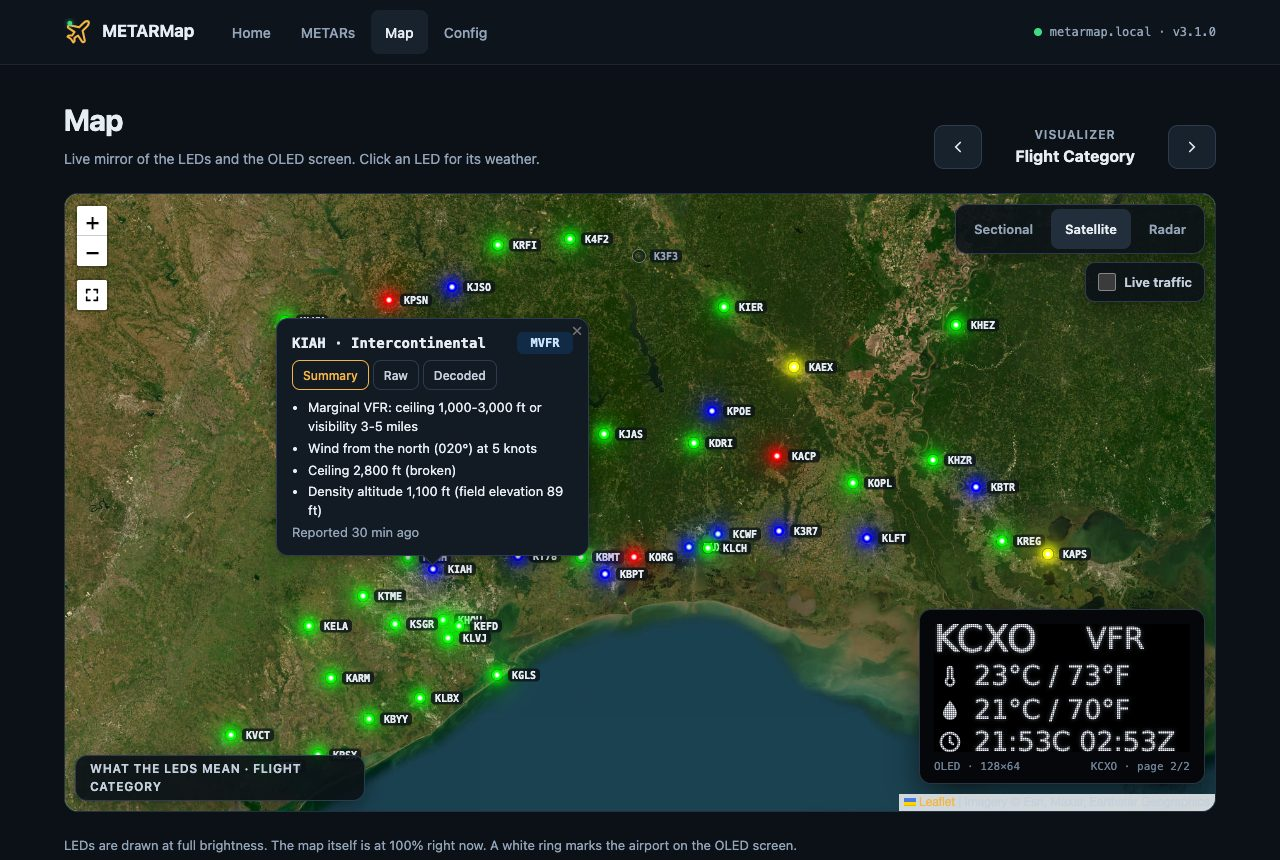
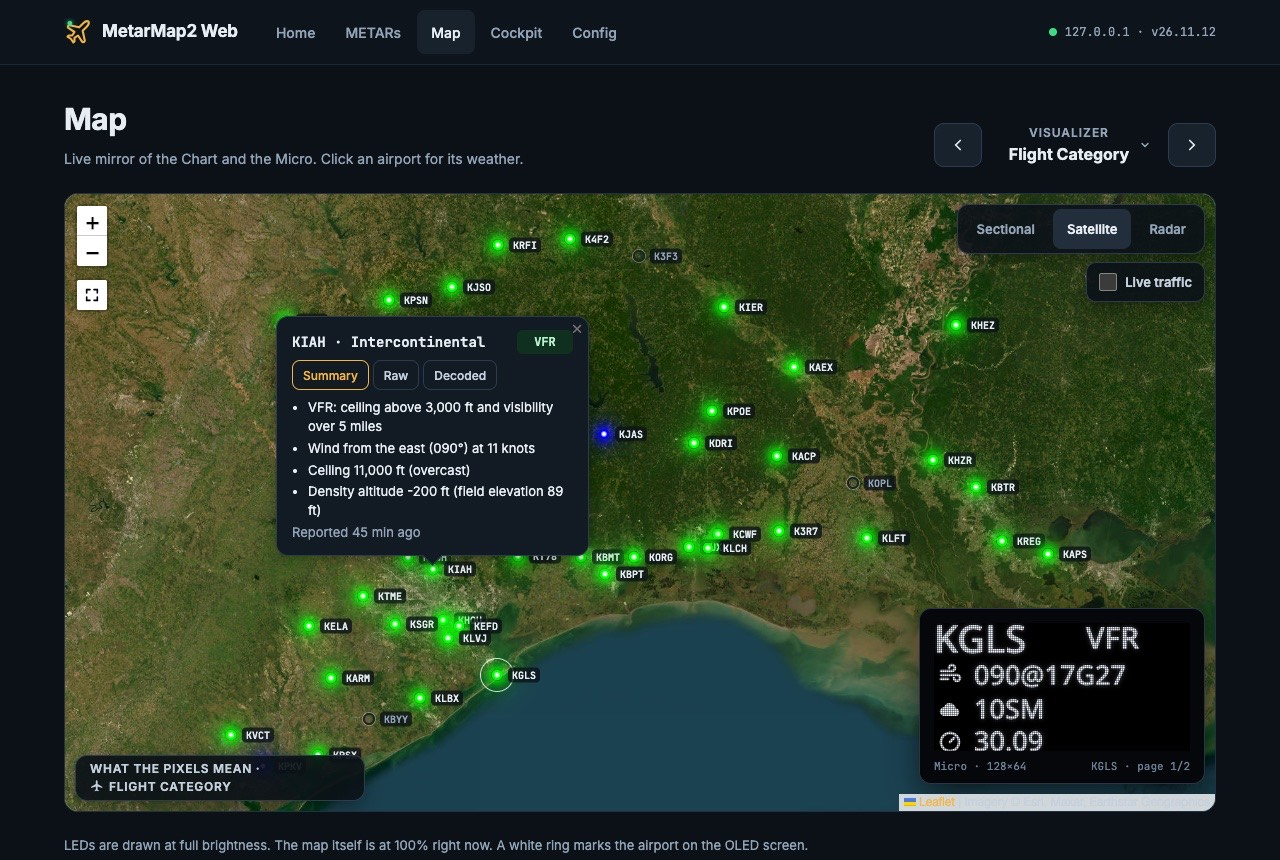
Docs: retake the Map screenshots for the visualizer picker, add the picker's, describe the Cockpit Map tab (B92)

diff --git a/README.md b/README.md
@@ -51,7 +51,9 @@ Written from the ground up with a web UI, an API and a Home Assistant integratio
   Click an airport on the map for its weather in plain English, its raw METAR, or the METAR decoded line by line,
   remarks included (exact temperature, hourly precipitation, peak wind, wind shifts...), and what the JSON feed leaves
   out (runway visual range, CAVOK, the trend, runway state, a special or corrected report...).
-  The map can go fullscreen, and follows the visualizer as it changes. Tap the visualizer's name between the arrows (also in fullscreen, and always on the Cockpit's Map tab) to pick any visualizer from a grid of icons; the ones left out of auto-rotate say "skipped". Tick **Live traffic** to see the aircraft
+  The map can go fullscreen, and follows the visualizer as it changes. Tap or click the visualizer's name between the
+  arrows (also in fullscreen, and always on the Cockpit's Map tab) to pick any visualizer from a grid of icons; the
+  ones you've skipped from auto-rotate say "skipped". Tick **Live traffic** to see the aircraft
   in the map's view (pan and zoom to look at any city); click one for its details and the map follows it. Update and restart the Chart from the Home
   page. **MetarMap2 Cockpit**, at `/remote`, is a remote control for a tablet in kiosk mode.
 - **API and Home Assistant**: everything in the web UI also works over HTTP (see [API.md](API.md)); the
@@ -66,6 +68,11 @@ Written from the ground up with a web UI, an API and a Home Assistant integratio
 The Map page mirrors the Chart, with a copy of the Micro, over an FAA chart, satellite imagery or live radar.
 
 ![The Map page's Wind visualizer over the FAA sectional chart, with the legend and the Micro's copy](docs/images/map_sectional.jpg)
+
+Tap or click the visualizer's name to pick any visualizer from a grid of icons (the one in use is highlighted, the
+ones you've skipped from auto-rotate say "skipped"):
+
+![The Map page with the visualizer picker open: a grid of icon tiles, the active one highlighted and some marked skipped](docs/images/map_visualizer_picker.jpg)
 
 The Wind Direction visualizer, with wind barbs, over the radar background:
 
@@ -149,6 +156,9 @@ small **skip** badge shows, and a message says "skipped". Hold it again to put i
 plain tap still picks it, skipped or not. Rainbow and Chase are always left out of auto-rotate, so they can't be
 skipped, and the last visualizer auto-rotate still shows can't be skipped either. It's the same list as Config >
 Visualizers > *Visualizers in auto-rotate*, kept on the Chart.
+
+The Cockpit's **Map** tab has the visualizer name between arrows in the map itself; tap the name to pick any visualizer from a grid of icons, as on the Map page
+(on the Cockpit it is a tap, on the Map page a tap or a click).
 
 ![The Cockpit's Visualizer tab](docs/images/remote_visualizer.png)
 

diff --git a/API.md b/API.md
@@ -825,7 +825,7 @@ hidden pixel: wire it into the string, but it shows no airport.`) or the pixels 
 | `GET /metars` | | Table of METARs for every airport |
 | `GET /map` | | Live mirror of the Chart and the Micro on an FAA chart, satellite or radar background (a new radar scan every 5 minutes while radar is shown). An airport's popup has Summary, Raw and Decoded tabs, and with spoken weather on a Listen tab: its AWOS (showing the raw METAR), and its ATIS (the FAA's text, read along) where `leds[].atis` |
 | `GET /map/legend` | | The active visualizer's legend (HTML), which the Map page and the Cockpit swap in when the visualizer changes |
-| `GET /remote` | | MetarMap2 Cockpit: a remote control laid out for an iPad in kiosk mode, in three tabs: Visualizer (the visualizers and the legend, with a footer of controls: the auto-rotate switch with a countdown to the next visualizer, which is saved, and pixel brightness and the Micro switch, which aren't), Map (the Map page's live map) and Info (every airport; a press locates it, or with spoken weather on, reads its AWOS, or with `speech.atis` its ATIS: Locate, AWOS and ATIS modes, ATIS showing only the airports with one). It follows changes made anywhere else (it polls `/api/live`). `/remote#map` or `#info` opens that tab, and `#locator`, `#awos` or `#atis` the Info tab in that mode; otherwise it opens the tab and mode last used on that device. *Add to Home Screen* opens it full screen |
+| `GET /remote` | | MetarMap2 Cockpit: a remote control laid out for an iPad in kiosk mode, in three tabs: Visualizer (the visualizers and the legend, with a footer of controls: the auto-rotate switch with a countdown to the next visualizer, which is saved, and pixel brightness and the Micro switch, which aren't), Map (the Map page's live map, with its visualizer arrows and the name that opens a grid of every visualizer) and Info (every airport; a press locates it, or with spoken weather on, reads its AWOS, or with `speech.atis` its ATIS: Locate, AWOS and ATIS modes, ATIS showing only the airports with one). It follows changes made anywhere else (it polls `/api/live`). `/remote#map` or `#info` opens that tab, and `#locator`, `#awos` or `#atis` the Info tab in that mode; otherwise it opens the tab and mode last used on that device. *Add to Home Screen* opens it full screen |
 | `GET /raw` | | Raw METAR text for every airport, followed by the full parsed data |
 | `GET /raw/<code>` | | Raw METAR text for one airport |
 | `GET /debug` | | Debug information |
